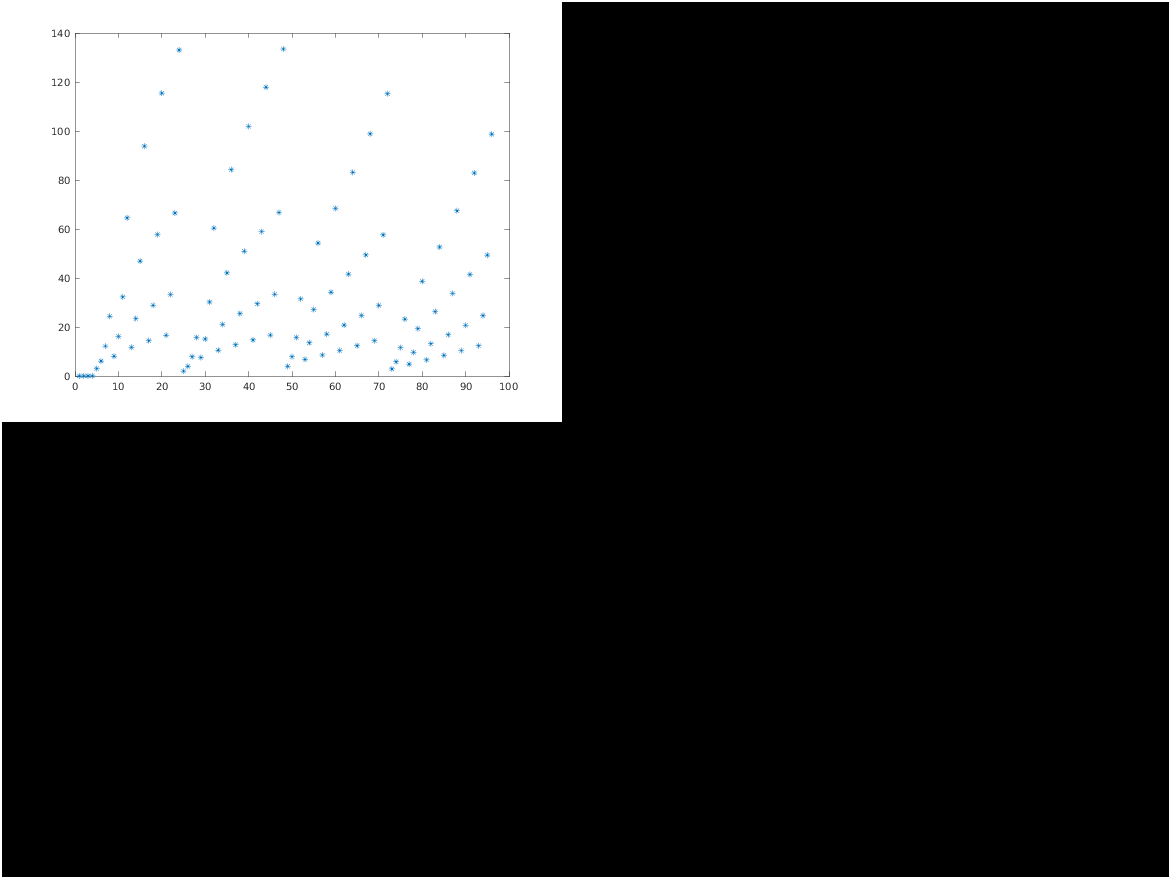
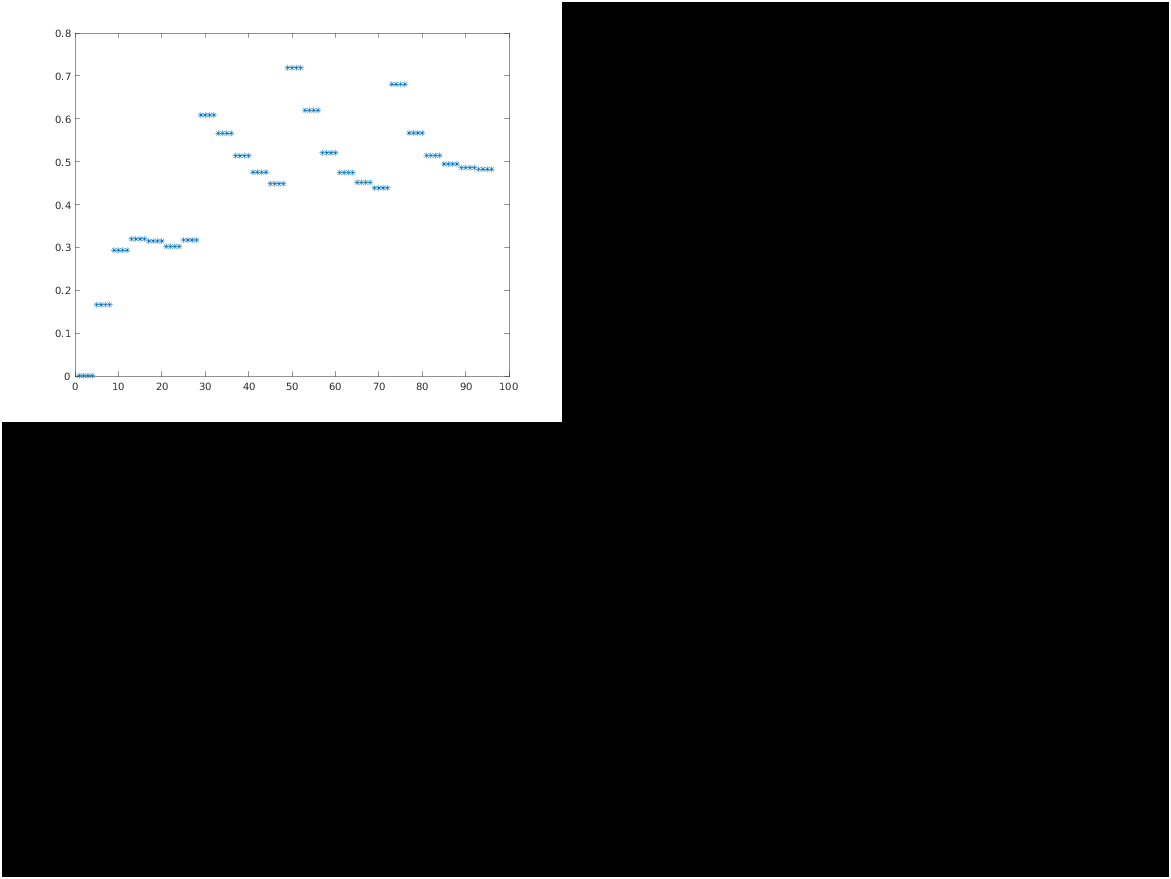
amp

diff --git a/SE_Stokes_run/SE3P_Stokes/amp_param.m b/SE_Stokes_run/SE3P_Stokes/amp_param.m
@@ -23,7 +23,7 @@ for L = LL
             F = sqrt(sum(norm(ff).^2));
             a = A(F,xi,L);
             fprintf(fileid,'%3i %2.2f %1i %6.4f %6.4f %6.4f \n',N,L,xi,eu,norm(a),eu/a);
-            MA = [MA eu];
+            MA = [MA eu/a];
         end
     end
 end
